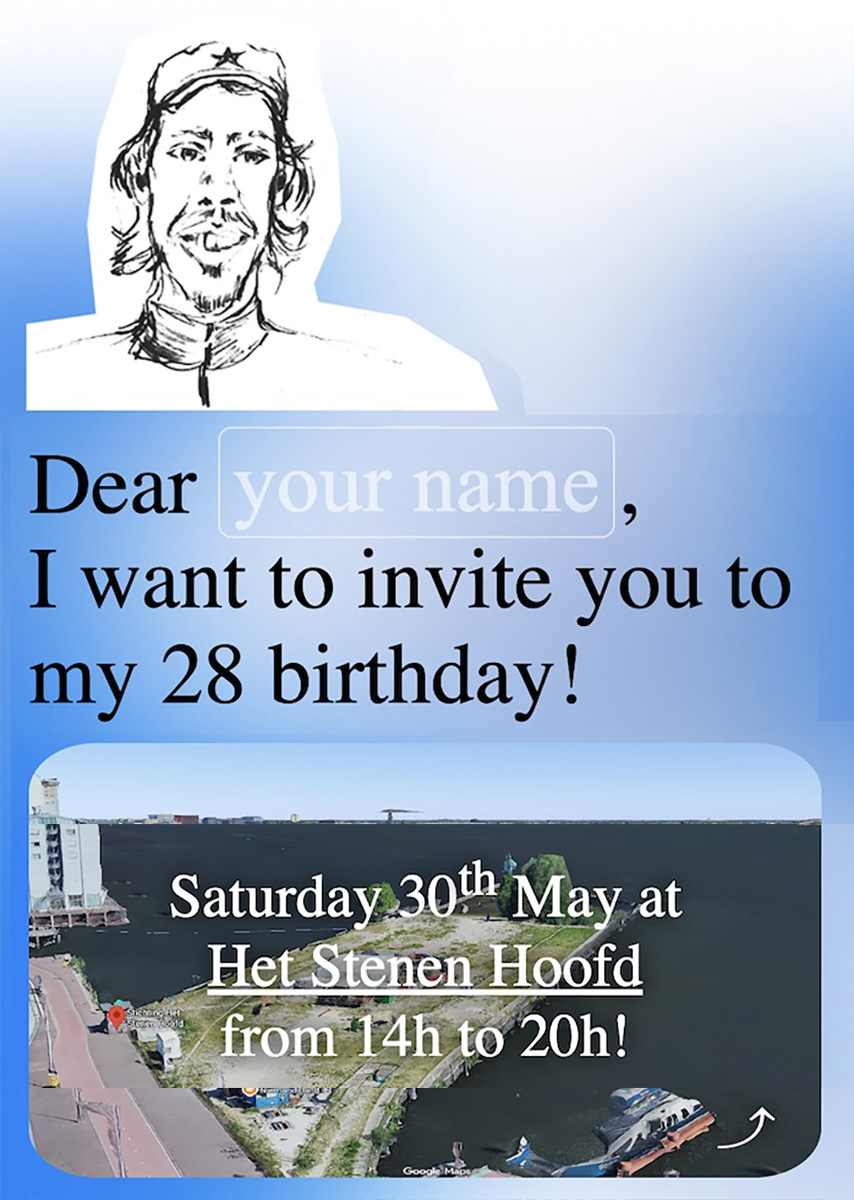
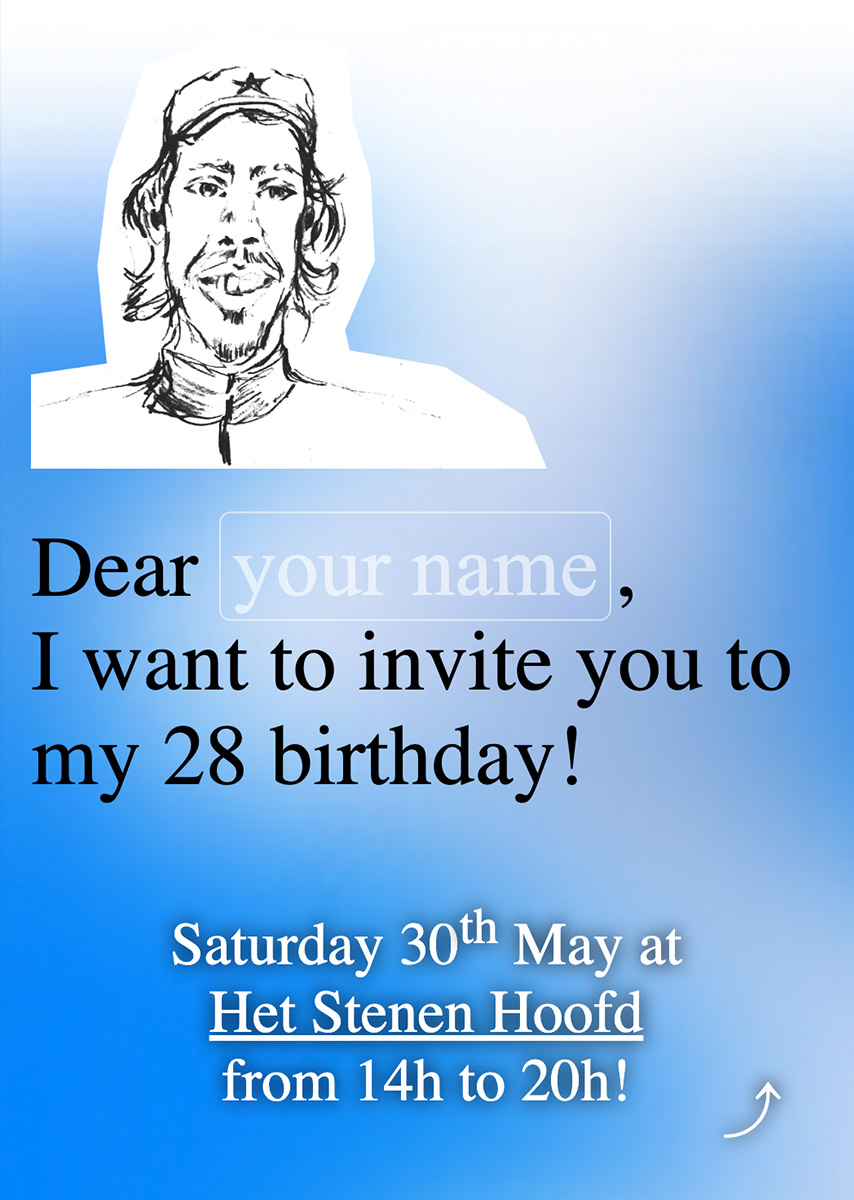
frf

diff --git a/birthday/index.html b/birthday/index.html
@@ -41,10 +41,10 @@
 
 <body>
     <button id="download">
-        <img src="cal.png" alt="">
+        <img src="cal.webp" alt="">
         Click to add! </button>
 
-    <img src="pablo-2.png" alt="" id="pablo" onclick="alert('Thanks Jette for the drawing!')">
+    <img src="pablo-2.webp" alt="" id="pablo" onclick="alert('Thanks Jette for the drawing!')">
 
     <h1>Dear <textarea
                   placeholder="your name"></textarea>,<br> I want to invite you to
@@ -100,7 +100,7 @@
         <legend>To spend better time, you can bring with you:</legend>
 
         <div>
-            <input type="checkbox" id="1" name="1" checked />
+            <input type="checkbox" id="1" name="1" />
             <label for="1">gluten-free beer</label>
         </div>
 
@@ -202,7 +202,7 @@
     <span id="credits">No
         data from this website is
         sent, it's just copied to the
-        calendar event.</span>
+        calendar event!</span>
 
 
 

diff --git a/birthday/index.css b/birthday/index.css
@@ -8,7 +8,7 @@ body {
     font-size: 8vw;
     overflow-x: hidden;
     width: inherit;
-    background-image: url("stock-photo-white-clouds-sky-3491496778\ copy\ 2.png");
+    background-image: url("stock-photo-white-clouds-sky-3491496778\ copy\ 2.webp");
     background-repeat: no-repeat;
     background-size: cover;
     background-position: center;
@@ -82,6 +82,8 @@ hr {
 }
 
 #download {
+    display: none !;
+
     position: fixed;
     bottom: 2vw;
     right: 3vw;
@@ -144,7 +146,6 @@ hr {
     width: calc(100% - (var(--space)*2));
     height: auto;
     aspect-ratio: 4/3;
-    background-image: url('photo.png');
     background-size: cover;
     border-radius: 30px;
     background-position: center;
@@ -160,7 +161,7 @@ hr {
 
 /* When this class is added via JS, the background image swaps seamlessly */
 #maps.show-lines {
-    background-image: url('map.png');
+    background-image: url('map.webp');
 }
 
 /* TECHNICAL */
